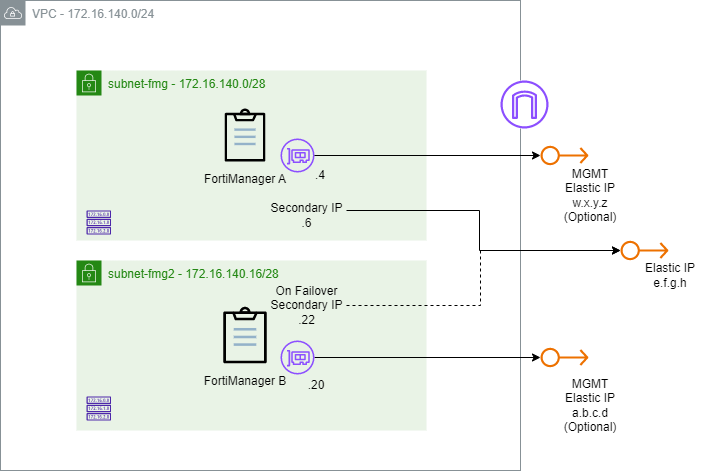
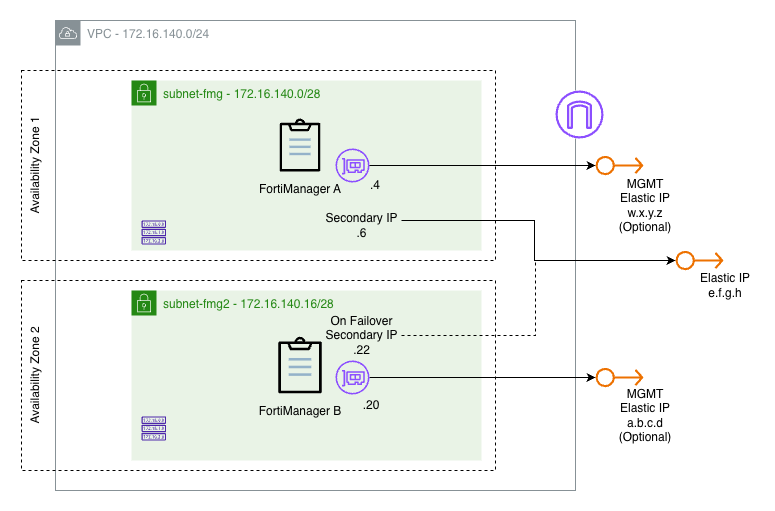
Update drawing and readme

diff --git a/examples/ha/README.md b/examples/ha/README.md
@@ -13,8 +13,8 @@ The module supports two topologies, both using VRRP for automatic failover and d
 
 1. **VRRP Automatic Failover with Public VIP**
 
-fmg1 and fmg2 land in different subnets / AZs cross-AZ resilience.
-Each node gets its own EIP, plus public VIP attached to fmg1.
+FortiManager A and FortiManager B land in different subnets / AZs cross-AZ resilience.
+Each node gets its own EIP, plus public VIP attached to FortiManager A.
 Once the HA cluster is successfully formed, FazUtil creates a secondary private IP address on eni1 interface of both FortiManager instances and assigns the public VIP to the primary FortiManager. During a failover , the public VIP is automatically reassigned to the new primary FortiManager, ensuring continuous management access.
 
 ![FortiManager HA VRRP VIP Private IP design](images/fmg-vrrp-pubilc-vip.png)
@@ -23,7 +23,7 @@ Once the HA cluster is successfully formed, FazUtil creates a secondary private 
 
 Both nodes sit in the same subnet / AZ.
 By default, no public IP addresses are assigned to the FortiManager instances. If direct management access from the internet is required, you can optionally assign public IP addresses to the management interfaces of the FortiManager nodes.
-fmg1's ENI carries two private IPs: a primary address and the secondary private VIP HA address. Failover moves this secondary private IP between nodes.
+FortiManager A's ENI carries two private IPs: a primary address and the secondary private VIP HA address. Failover moves this secondary private IP between nodes.
 
 ![FortiManager HA VRRP VIP Private IP design](images/fmg-vrrp-private-vip.png)
 
@@ -166,12 +166,13 @@ end
 ```
 terraform-aws-fortimanager/
 ├── modules/
-│   └── ha/                       # HA FortiManager deployment module
+│   ├── ha/                       # HA FortiManager deployment module
 ├── examples/
-│   ├── main.tf                   # Example deployment configuration
-│   ├── variables.tf              # Input variable definitions
-│   ├── terraform.tfvars.example  # Example variable values
-│   └── outputs.tf                # Deployment outputs
+│   ├── ha/                       # HA example deployment
+│   │   ├── main.tf
+│   │   ├── variables.tf
+│   │   ├── terraform.tfvars.example
+│   │   ├── outputs.tf
 └── README.md
 ```
 